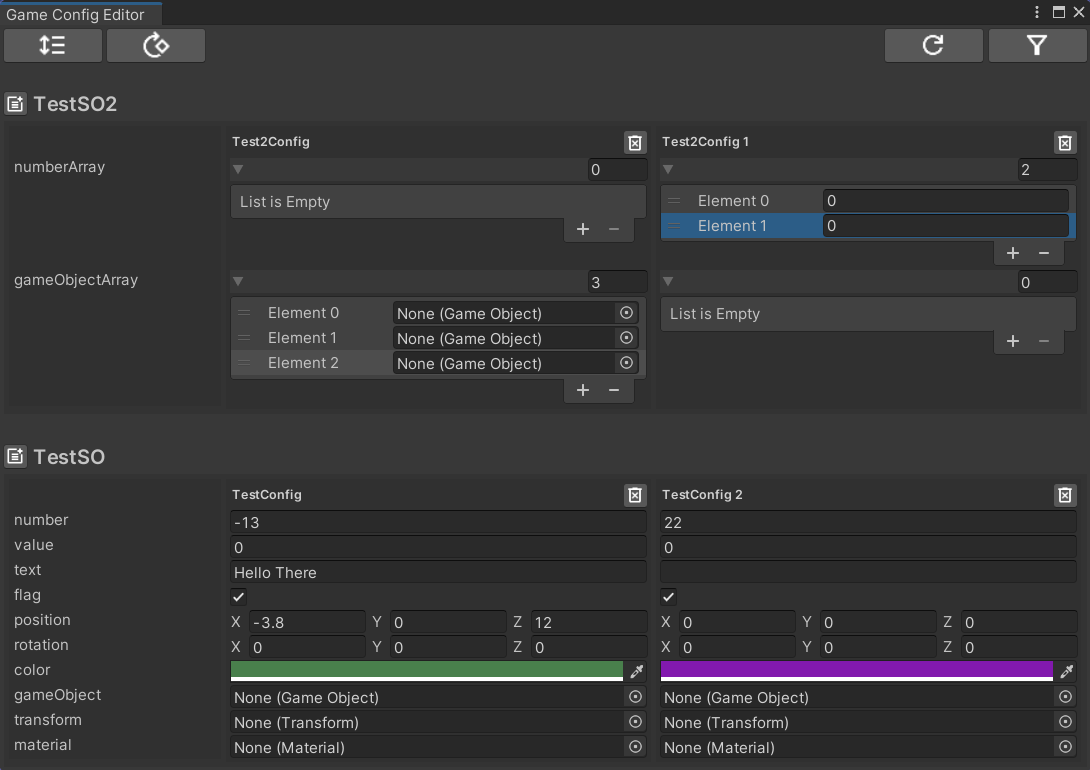
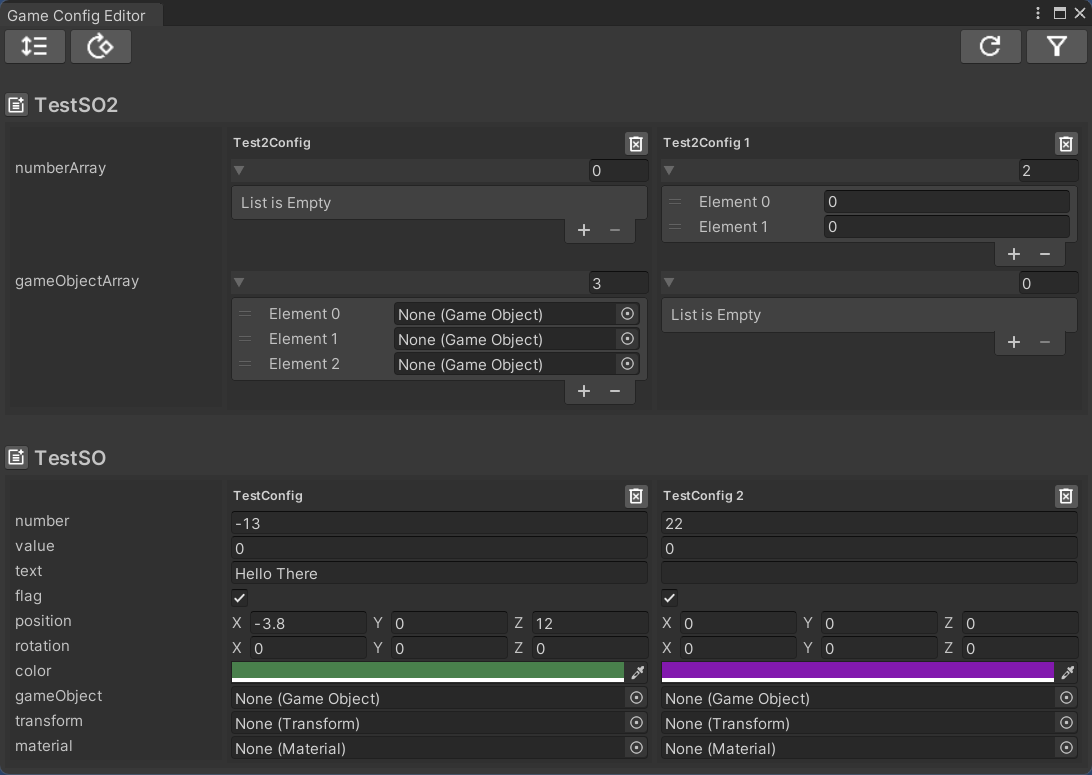
visual update
button width changes

diff --git a/Assets/Editor/Editor Windows/ScriptableObjectEditorWindow.cs b/Assets/Editor/Editor Windows/ScriptableObjectEditorWindow.cs
@@ -92,7 +92,7 @@ public class ScriptableObjectEditorWindow : EditorWindow
             spaceButton = new GUIContent("space", "change space between parameters");
         }
 
-        if (GUILayout.Button(spaceButton, GUILayout.Width(80)))
+        if (GUILayout.Button(spaceButton, GUILayout.Width(50)))
         {
             SetSpace();
         }
@@ -107,7 +107,7 @@ public class ScriptableObjectEditorWindow : EditorWindow
             orientationButton = new GUIContent("rotate", "change the table orientation");
         }
 
-        if (GUILayout.Button(orientationButton, GUILayout.Width(80)))
+        if (GUILayout.Button(orientationButton, GUILayout.Width(50)))
         {
             if (OrientationVertical)
             {
@@ -132,7 +132,7 @@ public class ScriptableObjectEditorWindow : EditorWindow
         {
             refreshButton = new GUIContent("refresh", "refresh");
         }
-        if (GUILayout.Button(refreshButton, GUILayout.Width(80)))
+        if (GUILayout.Button(refreshButton, GUILayout.Width(50)))
         {
             RefreshAll();
         }
@@ -147,7 +147,7 @@ public class ScriptableObjectEditorWindow : EditorWindow
         {
             filtersButton = new GUIContent("filters", "filters");
         }
-        if (GUILayout.Button(filtersButton, GUILayout.Width(80)))
+        if (GUILayout.Button(filtersButton, GUILayout.Width(50)))
         {
             Vector2 mousePosition = Event.current.mousePosition;
             PopupWindow.Show(new Rect(mousePosition.x, mousePosition.y + 20, 0, 0), new ConfigTypeSelectionPopup(selectedTypes, GroupScriptableObjectsByType, availableTypes));
